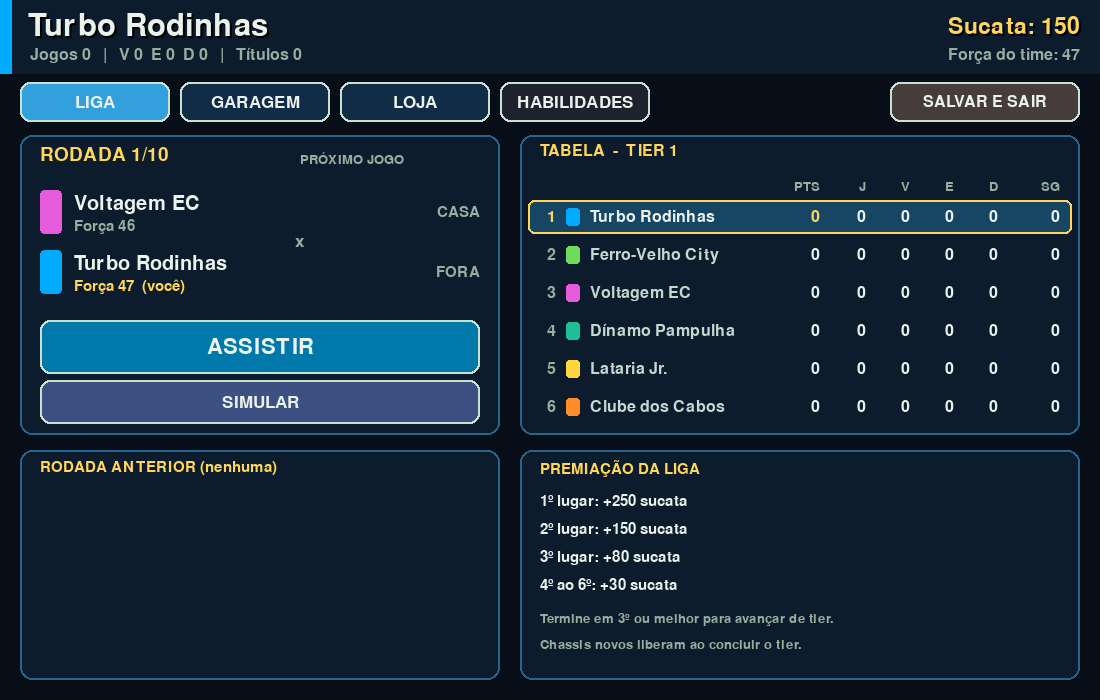
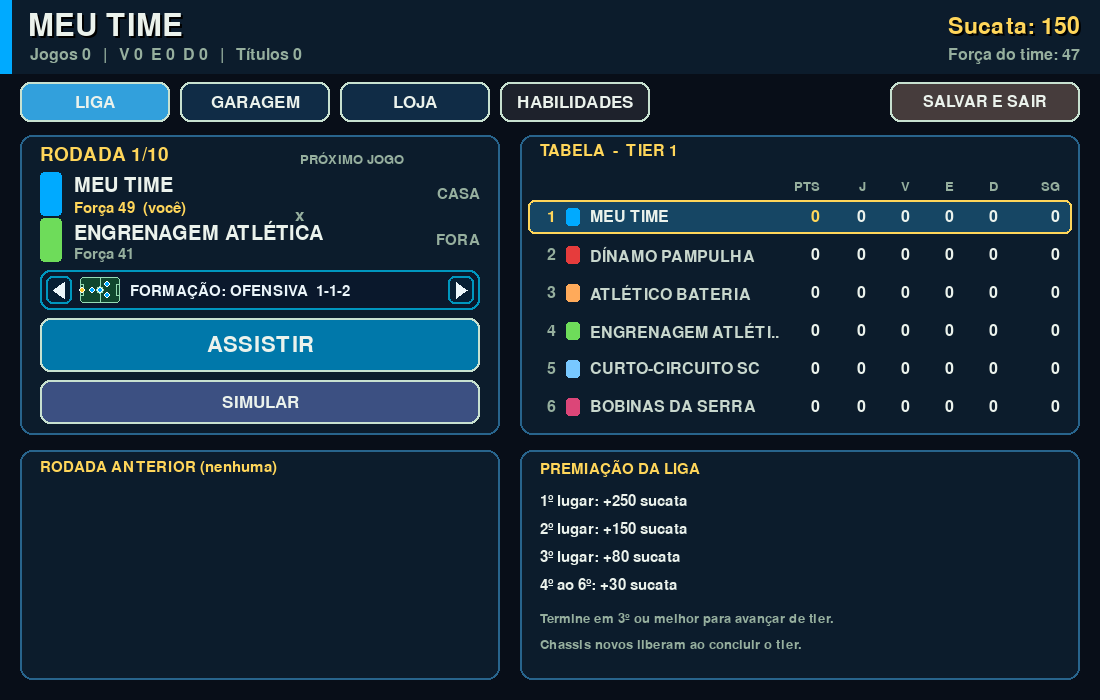
docs: formacao em todos os modos, balanceamento e revisao geral do README e docs
- specs/formacoes.md (novo): arquivos, formacoes, onde aparece, teclas, motor, saves, tabela de
  balanceamento e efeito no SIMULAR.
- README: secao Formacao, legendas e galeria atualizadas (menu sem opcao de camera, partida com a faixa
  do narrador, amistoso, formacao na campanha, torneio, Modo Robos, Torre), contagens de efeitos de som,
  estrutura (formations.py, formation_ui.py, tools/versionar_build.sh) e testes.
- INDEX/roadmap: estado (Amistoso, formacao e som prontos, ainda nao publicados), numeros de linhas e
  testes, como regerar as capturas.

diff --git a/README.md b/README.md
@@ -25,17 +25,18 @@ pelas habilidades dos robôs.
 | ![Campanha: diálogo](docs/img/campanha-dialogo.png) | ![Campanha: mapa dos capítulos](docs/img/campanha-mapa.png) |
 | **Campanha** - diálogos com personagens e cenários em pixel art animados (torcida com rostos, piso de tábuas, luzes) | **Mapa da campanha** - da escola ao Mundial de Aspiradores |
 | ![Campanha: torneio](docs/img/campanha-torneio.png) | ![Modo Robôs: liga](docs/img/modo-robos-liga.png) |
-| **Torneio** - grupo, chaveamento e final contra o chefe (ASSISTIR ou SIMULAR) | **Modo Robôs** - liga de 6 times em 4 tiers |
+| **Torneio** - grupo, chaveamento, final contra o chefe, formação e ASSISTIR ou SIMULAR | **Modo Robôs** - liga de 6 times em 4 tiers, com a formação do próximo jogo |
 | ![Garagem: bancada com 8 slots](docs/img/garagem-bancada.png) | ![Árvore de habilidades](docs/img/habilidades.png) |
 | **Garagem** - 8 slots (com Módulo), sets, relíquias e o antes/depois de cada peça | **Habilidades** - árvore Ataque/Controle/Defesa, skills equipadas e tática do time |
 | ![Mochila de itens](docs/img/mochila.png) | ![Galeria de cosméticos](docs/img/visual-cosmeticos.png) |
 | **Mochila** - até 2 itens de partida, gastos ao jogar | **Visual** - adesivo, antena, rastro e comemoração por robô |
 
-![Amistoso: escolha de times e formações](docs/img/amistoso-escolha.png)
-
-**Amistoso** - antes da partida, o time e a formação de cada lado (escudo, força e mini-campo com a posição dos robôs).
+| ![Amistoso: escolha de times e formações](docs/img/amistoso-escolha.png) | ![Seletor de formação na campanha](docs/img/formacao-campanha.png) |
+|---|---|
+| **Amistoso** - antes da partida, o time e a formação de cada lado (escudo, força e mini-campo com a posição dos robôs) | **Formação** - o mesmo seletor na campanha, no Modo Robôs e na carreira |
 
 | ![Mapa do Ato 2](docs/img/campanha-mapa-ato2.png) | ![Superliga em pontos corridos](docs/img/campanha-superliga.png) |
+|---|---|
 | **Ato 2** - mapa por Ato (Ato 1 escola ao Mundial, Ato 2 Superliga Limpex, Ato 3 Copa dos Campeões) | **Superliga** - liga em pontos corridos, os 4 primeiros vão à semifinal |
 
 ![Missões secundárias](docs/img/campanha-missoes.png)
@@ -112,13 +113,14 @@ início do jogo, aos poucos) somados a sons gravados em `game/audio/` (OGG mono,
 - **Reações da torcida (tabela única `FILE_SFX` em `game/sfx.py`):** cada reação tem de 3 a 9
   variações (gravações + variações derivadas delas em tempo de execução: outro tom/andamento ou outro
   trecho, sem arquivo novo), sorteadas em "saco embaralhado" (toca todas antes de repetir, nunca a
-  mesma duas vezes seguidas). Grito de gol do jogador (9), do adversário (6), lamento da torcida no gol
-  sofrido (4; gol contra do nosso time: vaia), "uuuh" da chance (4), quase gol (4 / 3), defesa (4),
+  mesma duas vezes seguidas). Grito de gol do jogador (9), do adversário (7, com um "não!"), lamento da
+  torcida no gol sofrido (4; gol contra do nosso time: vaia), "uuuh" da chance (6), quase gol (6 / 3), defesa (4),
   trave (4, junto do CLANG), olé no drible e na defesa do jogador (4), palmas (3-4), vaia (3),
   início "começou!" (3), festa da vitória (3) e lamento da derrota (3). Vozes faladas têm intervalo
   próprio maior para não cansar. Detalhes em [docs/specs/som.md](docs/specs/som.md).
-- **Outros efeitos gravados:** apito final, robôs desligando no fim, palmas nos cânticos e na ola da
-  torcida e o clique dos menus.
+- **Outros efeitos gravados:** apito final com o "acabou!", robôs desligando no fim, caixa registradora
+  no card do resumo da partida (qualquer placar), palmas nos cânticos e na ola da torcida e o clique dos
+  menus.
 - **Motor dos robôs:** `robo_motor.ogg` em loop, baixo, enquanto a bola rola (para na pausa e no MAX).
 - Se algum arquivo faltar ou não abrir, entra o som sintetizado equivalente.
 
@@ -126,10 +128,9 @@ Ligados por padrão em volume médio.
 
 - **Efeitos:** chute e toque na bola, roubo e drible, trave (CLANG), apito de início e de fim, gol
   (explosão da torcida + buzina), "uuuh" da chance, defesa, palmas, skill (BUZZ), arrancada (ZOOM),
-  cliques de menu, avanço de diálogo, vitória/derrota/empate, recompensa, compra e upgrade na loja.
+  cliques de menu, avanço de diálogo, recompensa, compra e upgrade na loja.
 - **Música** chiptune em loop (só se faltarem os arquivos): uma trilha para menus/campanha e outra, mais
-  animada e mais baixa, para a partida; "acabou!" no apito final e caixa registradora no card do resumo
-  da partida.
+  animada e mais baixa, para a partida.
 - **Teclas:** **M** liga/desliga o mudo geral (em qualquer tela); **S** gira o volume dos efeitos e
   **N** o da música (DESL. / BAIXO / MÉDIO / ALTO), no menu ou na pausa. Tudo fica gravado nas
   preferências. No modo MAX a partida fica sem efeitos.
@@ -139,8 +140,9 @@ Ligados por padrão em volume médio.
 **Robôs e cenas:** cada chassi tem desenho próprio (o Orbital com satélites, o
 Titã octogonal), as peças equipadas aparecem no robô (turbina, canhão, para-choque
 blindado, radar...), as escovas giram e a bateria baixa solta faíscas e fumaça.
-Na campanha, os personagens piscam e mexem a boca ao falar, e os cenários têm
-camadas, luz e animação.
+Na campanha, personagens e cenários são **pixel art** desenhada por código (`game/portraits_pixel.py`,
+`game/scenes_pixel.py`): os personagens piscam e mexem a boca ao falar, com expressão por humor, e os
+cenários têm torcida, luz e animação.
 
 ## Modos
 No menu (teclas 1-6): `1 - AMISTOSO`, `2 - AMISTOSO`, `3 - NOVA CARREIRA`, `4 - CONTINUAR CARREIRA`, `5 - MODO ROBÔS` e `6 - CAMPANHA`.
@@ -157,9 +159,10 @@ torcida, ~1 min) sem trocar a música do menu. Qualquer tecla, clique, toque ou 
    escudo, cor e força (os robôs entram em campo com a força do time). O mesmo time não pode estar dos
    dois lados; cores parecidas fazem o lado da direita trocar de cor, como nas outras partidas.
    Formações (mini-campo com a posição dos 5 robôs): **EQUILIBRADA 1-2-1** (a de sempre), **RETRANCA
-   2-1-1** (dois zagueiros, bloco recuado), **OFENSIVA 1-1-2** (dois atacantes abertos), **QUADRADO 2-2**
+   2-1-1** (dois zagueiros fechando o meio), **OFENSIVA 1-1-2** (dois atacantes abertos), **QUADRADO 2-2**
    e **PRESSÃO 1-2-1** (linha alta). A formação muda onde cada robô fica e para onde volta durante o jogo
-   (posição base + avanço/recuo do bloco); os papéis e atributos dos robôs não mudam.
+   (posição base + avanço/recuo do bloco); os papéis e atributos dos robôs não mudam. A mesma escolha
+   de formação existe na carreira, no Modo Robôs e na campanha (ver **Formação** abaixo).
    Teclas: setas/WASD escolhem (no modo 1 você escolhe os dois lados; TAB troca de lado; no modo 2 o J1
    usa WASD no lado esquerdo e o J2 as setas no direito, ao mesmo tempo), **R** = aleatório, **ENTER** =
    jogar, **ESC** = menu; com o mouse: setas < >, roda sobre a linha e os botões. A última escolha fica
@@ -171,7 +174,8 @@ torcida, ~1 min) sem trocar a música do menu. Qualquer tecla, clique, toque ou 
    salários, premiação), **promoção/rebaixamento** (sobem/descem 2) e evolução
    dos jogadores entre temporadas. Suas partidas são **jogadas automaticamente
    no campo** (você assiste; velocidade 1x/2x/4x/MAX nas teclas 1-4); as dos
-   outros clubes são simuladas. O progresso é salvo sozinho (`localStorage` no
+   outros clubes são simuladas. Na aba INÍCIO, o seletor de **formação** do seu clube fica no
+   painel da próxima partida. O progresso é salvo sozinho (`localStorage` no
    navegador; `~/.soccerpy_career.json` no desktop).
 4. **Continuar carreira** (aparece quando há save)
 5. **Modo Robôs**: você monta uma **equipe de robôs persistente** e disputa ligas.
@@ -191,7 +195,8 @@ torcida, ~1 min) sem trocar a música do menu. Qualquer tecla, clique, toque ou 
    - **Liga:** 6 times, ida e volta (10 rodadas), em 4 tiers de dificuldade. Em cada
      rodada você escolhe **assistir** (partida jogada no motor) ou **simular**
      (resultado estatístico). Terminar em 3º ou melhor libera o próximo tier, e a
-     premiação em sucata depende da colocação.
+     premiação em sucata depende da colocação. A **formação** do time é escolhida no painel do
+     próximo jogo, na aba LIGA.
    - **Habilidades, itens e visual (Fase 4, Onda B)** - liberados ao concluir o tier 1 do
      Modo Robôs ou o Ato 1 da campanha (antes disso tudo joga exatamente como antes):
      - **8º slot "Módulo"**, 30 modelos de peça, 6 relíquias únicas e 5 sets (Faxineiro,
@@ -227,7 +232,7 @@ torcida, ~1 min) sem trocar a música do menu. Qualquer tecla, clique, toque ou 
      Campeões) e 13 (O Chip Zero, contra o X-Ômega), com **3 finais** conforme as escolhas (um
      deles secreto). Mais **14 missões secundárias** no botão MISSÕES do mapa (as 4 "Fitas do Vô"
      levam ao final secreto). São ~160 cenas de diálogo. Retratos e
-     cenários são **desenhados por código** (sem imagens externas). O mapa tem uma aba por Ato
+     cenários são **pixel art desenhada por código** (sem imagens externas). O mapa tem uma aba por Ato
      e um botão de **MISSÕES** secundárias.
    - **Escolhas:** algumas cenas oferecem 2-3 opções que mudam falas seguintes e podem dar
      recompensas (sucata, XP, peça). Esc na cena abre um mini-menu; PULAR CENA pede
@@ -235,6 +240,7 @@ torcida, ~1 min) sem trocar a música do menu. Qualquer tecla, clique, toque ou 
    - **Torneios:** grupo de 4 + mata-mata com pênaltis (o Mundial tem também quartas).
      Você é sempre o mandante. Em cada partida escolhe **ASSISTIR** (partida jogada no
      motor, velocidade 1x/2x/4x/MAX nas teclas 1-4) ou **SIMULAR** (resultado estatístico).
+   - **Formação:** escolhida no painel da partida do torneio, no TREINO e na Torre do Pó.
    - **Chefes e "ajuda":** a cada derrota seguida contra o chefe ele perde 1 de Força
      (até -3); zera ao vencer.
    - **TREINO:** partidas ilimitadas contra um adversário mais fraco, na garagem ou no
@@ -267,6 +273,17 @@ torcida, ~1 min) sem trocar a música do menu. Qualquer tecla, clique, toque ou 
        do NG+ e da Torre (a loja e os drops nunca sorteiam). Sete cosméticos novos (antenas Para-raios,
        Coroa do Pó e Auréola; rastros Poeira Dourada e Cometa; comemorações Troféu e Relâmpagos) aparecem
        na loja como "prêmio" e não se compram.
+
+### Formação (todos os modos)
+Cinco formações: **EQUILIBRADA 1-2-1** (padrão), **RETRANCA 2-1-1**, **OFENSIVA 1-1-2**, **QUADRADO 2-2** e
+**PRESSÃO 1-2-1**. Fora do amistoso, o seletor `FORMAÇÃO: < EQUILIBRADA 1-2-1 >` (com mini-campo) fica
+acima do ASSISTIR: na campanha (torneio, treino e Torre do Pó), no Modo Robôs (aba LIGA) e na carreira
+(aba INÍCIO). Clique nas setas ou no seletor, ou use as setas esquerda/direita, **F** (próxima) e
+**Shift+F** (anterior). A escolha fica no save de cada modo (campo opcional `formation`; saves antigos
+carregam com a EQUILIBRADA). Só o seu time muda: a CPU joga com a formação padrão. Medido no motor: com robôs
+fracos as formações ficam perto da EQUILIBRADA; com robôs fortes RETRANCA, OFENSIVA e QUADRADO pioram e a
+PRESSÃO melhora. Esse efeito entra na "Sua Força" e no SIMULAR. Detalhes em
+[docs/specs/formacoes.md](docs/specs/formacoes.md).
 
 ### Controles (modos 1 e 2)
 | Ação | Modo 1 jogador | J1 | J2 |
@@ -326,9 +343,10 @@ do Pó.
 | 3 | **Campanha** "A Garagem do Vô": história, diálogos, torneios, chefes e treino (escola -> mundial) | pronta e jogável |
 | 4 | **Campanha Expandida**: torcida realista, câmera de estádio e desenhos mais detalhados (Onda A), peças/sets/relíquias/itens/cosméticos e 16 skills dos robôs (Onda B), Atos 2 e 3, missões secundárias e 3 finais (Onda C), NG+ "Turnê Lendária", Torre do Pó e peças Míticas (Onda D) | Ondas A, B, C e D (pós-campanha) prontas e publicadas ([docs/roadmap.md](docs/roadmap.md)) |
 | 5 | Editor de firmware (regras da IA em blocos) | planejada |
-| 6 | **Som**: efeitos e música sintetizados por código, mudo (M) e volumes (S/N) | pronta |
+| 6 | **Som**: efeitos e música sintetizados por código, sons gravados (torcida, gol, apito, "acabou!", caixa registradora), música "Into the Iron Horizon" nas partidas com a torcida de fundo em loop, mudo (M) e volumes (S/N) | pronta, ainda não publicada |
 
-O planejamento detalhado fica em [`docs/`](docs/INDEX.md).
+Também prontos e ainda não publicados: amistoso com escolha de times e formações e a escolha de
+formação na campanha, no Modo Robôs e na carreira. O planejamento detalhado fica em [`docs/`](docs/INDEX.md).
 
 **Robôs (Fase 1):** 6 chassis (Disco, Tanque, Velocista, Goleiro, Orbital, Titã) e 8 atributos
 (velocidade, aceleração, chute, controle/sucção, defesa, visão, bateria, QI) que
@@ -350,9 +368,9 @@ cd game && pygbag --template ../web/copaaspirador.tmpl --width 1100 --height 700
 # gerar build estático para publicar (itch.io, GitHub Pages...): game/build/web/
 cd game && pygbag --template ../web/copaaspirador.tmpl --width 1100 --height 700 --title "Copa Aspirador" --build .
 
-# antes de publicar: versiona os pacotes no index.html (game.apk?v=<sha>), para cada deploy
-# aparecer na hora (nem o Cloudflare nem o navegador servem o pacote antigo do cache)
-cd .. && tools/versionar_build.sh
+# antes de publicar: versiona os pacotes no index.html (game.apk?v=<sha>, cache busting), para
+# cada deploy aparecer na hora (nenhum cache serve o pacote antigo)
+cd .. && tools/versionar_build.sh            # ou: tools/versionar_build.sh <pasta_do_build>
 ```
 
 ## Testes
@@ -366,20 +384,20 @@ export SDL_VIDEODRIVER=dummy SDL_AUDIODRIVER=dummy
 .venv/bin/python tests/test_parts_v2.py               # catálogo novo: modelos, relíquias, módulos e sets
 .venv/bin/python tests/test_skills.py                  # dados das skills, árvore, carga, tática e força calibrada
 .venv/bin/python tests/test_skills_engine.py           # skills no motor: cada uma muda o lance, disparos, FX (~minutos)
-.venv/bin/python tests/test_robots_ui.py               # telas do Modo Robôs
+.venv/bin/python tests/test_robots_ui.py               # telas do Modo Robôs e seletor de formação (Modo Robôs, carreira, save)
 .venv/bin/python tests/test_visual.py                  # cores dos clubes, efeitos, pausa, save
 .venv/bin/python tests/test_story.py                   # dados da campanha (cenas, textos, torneios, capítulos, recompensas)
 .venv/bin/python tests/test_campaign.py                # lógica da campanha (torneios, pity, treino, recompensas)
 .venv/bin/python tests/test_campaign_save.py           # save da campanha (validação, reparo, save inválido)
 .venv/bin/python tests/test_campaign_migration.py      # migração v1 -> v2 -> v3 (4 saves reais do cap. 5, save terminado) e builds antigos lendo o save novo
-.venv/bin/python tests/test_campaign_ui.py             # telas da campanha (menu, mapa por Ato, missões, diálogo, torneio, fim e galeria)
+.venv/bin/python tests/test_campaign_ui.py             # telas da campanha (menu, mapa por Ato, missões, diálogo, torneio, fim e galeria, formação)
 .venv/bin/python tests/test_portraits.py               # retratos e cenários desenhados por código
 .venv/bin/python tests/test_prefs.py                   # preferências do jogador (store, valor inválido -> padrão)
 .venv/bin/python tests/test_friendly.py                # amistoso: times/formações, padrão idêntico ao motor antigo, tela, prefs, zero Surface
 .venv/bin/python tests/test_sfx.py                     # som: buffers sintetizados, arquivos OGG (trilhas, efeitos, motor), música + torcida da partida, throttle, mudo
 .venv/bin/python tests/test_crowd.py                   # torcida: locais, reações, extras, LOD, zero Surface por quadro
 .venv/bin/python tests/test_fireworks.py                # fogos do gol/vitória, modo demo, pisos do campo, nomes em caixa alta
-.venv/bin/python tests/test_camera.py                  # câmera de estádio: começa sempre em ESTÁDIO, tecla C, gol não troca, zero Surface
+.venv/bin/python tests/test_camera.py                  # câmera de estádio: começa sempre em ESTÁDIO, C só na pausa, gol não troca, zero Surface
 .venv/bin/python tests/test_narration.py               # narrador/comentarista: catálogo, fila sem spam, nomes, faixa, zero Surface
 .venv/bin/python tests/test_robot_art.py               # robôs: chassis, peças visíveis, cache, FX, local da torcida por modo
 .venv/bin/python tests/test_arena.py                   # modificadores de arena da Torre do Pó (desligados fora dela, efeito, zero Surface)
@@ -400,6 +418,7 @@ Os testes da campanha também não gravam nos saves reais. Os de partida são le
 .venv/bin/python tests/calib_campaign.py [--n 200] [--skills] [--procs 4]  # calibra a simulação da campanha (SIM_BIAS) contra o motor; pesado, opcional
 .venv/bin/python tests/calib_campaign.py --post --n 100  # NG+ e Torre do Pó (com modificadores) no motor x SIMULAR (~20 min)
 .venv/bin/python tests/calib_skills.py               # mede a força de cada skill no motor (tabela SKILL_FORCE); muito pesado
+.venv/bin/python tests/calib_formations.py [--n 300] [--procs 4] [--mode robots|friendly] [--all]  # balanceamento das formações no motor (CPU x CPU); pesado
 ```
 Utilitários do harness (`tests/sim_harness.py`): `golden`/`golden-new` com
 `--write` (regrava a baseline) ou `--check`, `run <ovrA> <ovrB> <n> [seed0] [legacy]`
@@ -418,11 +437,14 @@ Utilitários do harness (`tests/sim_harness.py`): `golden`/`golden-new` com
 - `game/store.py`: armazenamento de texto (`localStorage` no navegador, arquivo em `~` no desktop)
 - `game/prefs.py`: preferências do jogador (`soccerpy_prefs_v1`: torcida ALTA/MEDIA/OFF, tecla T; som `sfx_vol`/`music_vol` 0-3 e `mute`, teclas S/N/M; última escolha do amistoso `fr_t0/fr_t1/fr_f0/fr_f1`), com sanitize e padrão
 - `game/friendly.py` / `game/friendly_ui.py`: amistoso com escolha de times (29, de todos os modos) e formações (5), puro, e a tela de escolha
+- `game/formations.py`: as 5 formações (dados puros, compartilhados por amistoso, campanha, Modo Robôs e carreira; sanitize e o que o motor recebe)
+- `game/formation_ui.py`: mini-campo e seletor `FORMAÇÃO: < ... >` (clique e teclado) usados nas telas de partida
 - `game/sfx.py`: efeitos sonoros sintetizados, tabela única reação -> sons gravados (`FILE_SFX`, com variações derivadas em runtime e saco embaralhado), conversão para o formato do mixer, throttle, volumes/mudo, a música no canal reservado e a playlist do menu (`game/audio/*.ogg`, via `pygame.mixer.music`)
 - `game/music.py`: trilhas chiptune (menu, partida, jingles de vitória/derrota) escritas como texto e sintetizadas compasso a compasso
 - `game/crowd.py`: torcida (locais, espectadores pré-renderizados, reações, confete/LED/telão "AO VIVO", LOD) e a geometria das câmeras PERTO/ESTÁDIO
 - `game/narration.py`: narrador (Tonho) e comentarista (Cleide): catálogo de falas, fila sem spam e a faixa de TV da partida
 - `tools/normalizar_audio.sh`: deixa os áudios de `game/audio/` compactos e com o volume nivelado (ffmpeg; ver `docs/specs/som.md`)
+- `tools/versionar_build.sh`: versiona `game.apk`/`game.tar.gz` no `index.html` do build (`?v=<sha256 curto do game.apk>`; cache busting a cada deploy)
 - `tools/torcida_loop.sh`: gera `game/audio/torcida_loop.ogg` (torcida de fundo da partida, 24 s em loop sem emenda) a partir das 3 gravações de torcida
 - `game/robots_ui.py`: telas do Modo Robôs (hub, garagem, banco, loja, habilidades, mochila, visual, liga)
 - `game/career.py` / `game/career_ui.py`: carreira de clubes (liga, mercado, finanças, save) e suas telas

diff --git a/docs/INDEX.md b/docs/INDEX.md
@@ -10,8 +10,9 @@ Planejamento e especificações do jogo. O código e os comandos do dia a dia es
 | [specs/itens-e-habilidades.md](specs/itens-e-habilidades.md) | Peças de 14 para ~36 modelos, 8º slot "Módulo", sets, relíquias únicas, consumíveis de partida, cosméticos e o sistema de 16 skills dos robôs (gatilhos, efeitos no motor, cooldown, custo de bateria, como se ganham), integração no motor sem quebrar os goldens, calibração e garage v2 |
 | [specs/visual-desenhos-e-torcida.md](specs/visual-desenhos-e-torcida.md) | Torcida nas arquibancadas (geometria, técnica sem Surface por frame, orçamento de desempenho, reações por evento, densidade por capítulo, narrador e comentarista na faixa de TV, telão AO VIVO, câmera ESTÁDIO em toda partida), robôs com peças visíveis e animações, retratos e cenários mais detalhados, personagens em pixel art (estilo padrão: técnica, roupas/acessórios por personagem, humores, busto, cache e custo), e como testar |
 | [specs/som.md](specs/som.md) | Fase 6 - Som: catálogo de efeitos e onde tocam, trilhas chiptune, síntese (stdlib, 22050 Hz), formato do mixer, prefs (M/S/N), limites de vozes e throttle, navegador (pygbag) e medições; reações da torcida (tabela única, variações derivadas, saco embaralhado), música da partida + torcida de fundo em loop tocando juntas (volumes, RAM, `tools/torcida_loop.sh`) e áudios compactos com volume nivelado (`tools/normalizar_audio.sh`) |
+| [specs/formacoes.md](specs/formacoes.md) | Formações (5) em todos os modos: dados compartilhados (`formations.py`), seletor com mini-campo (`formation_ui.py`) no Amistoso, na Campanha (torneio, treino, Torre), no Modo Robôs (aba LIGA) e na Carreira (aba INÍCIO), teclas, motor (padrão = motor de sempre), campo opcional `formation` nos saves, CPU na padrão; balanceamento medido em `tests/calib_formations.py` (sem formação dominante até Força ~75; efeito no SIMULAR) |
 | [baseline-fase4.md](baseline-fase4.md) | Medições de referência antes da Fase 4 (commit 8a467a3): `draw_ms`, `menu_ms`, `ms_step`, goldens e resumo da calibragem da campanha |
-| [img/](img/) | Capturas de tela usadas no README (menu, partida, amistoso, campanha, garagem, habilidades, Mochila, cosméticos). Para regerar: rode `tests/test_robots_ui.py`, `tests/test_campaign_ui.py` e `tests/sim_harness.py camera-shots` com `SOCCERPY_SHOTS_DIR=<pasta>` e copie as imagens escolhidas |
+| [img/](img/) | Capturas de tela usadas no README (menu, partida com a faixa do narrador, amistoso, formação, campanha, garagem, habilidades, Mochila, cosméticos, Torre). Para regerar, com `SDL_VIDEODRIVER=dummy SDL_AUDIODRIVER=dummy SOCCERPY_SHOTS_DIR=<pasta>`: `tests/sim_harness.py ui-shots` (menu `a7_menu.png`, gol e narração) e `camera-shots`; `tests/test_campaign_ui.py <teste>` (ex.: `test_tourney_group_table_bracket_and_labels` -> `tourney_knockout.png`, `test_tower_screen_sim_watch_marks_and_restart` -> `d2_torre_tela.png`, `test_formation_selector_tourney_training_and_save` -> `formacao_torneio.png`); `tests/test_robots_ui.py test_formation_selector_robots_hub_and_save` (`formacao_robos.png`, aba LIGA); `tests/test_friendly.py` (tela do amistoso). A partida do README é um Modo Robôs no `estadio` com a garagem `sim_harness.loaded_garage()`, capturada após ~12 s de jogo. Confira cada imagem e copie só as escolhidas |
 | [specs/plano-de-implementacao.md](specs/plano-de-implementacao.md) | Ondas 0, A (visual), B (itens/skills), C (campanha), D (pós-campanha) em passos pequenos com arquivos e validação; estratégia de testes; riscos; decisões para o dev |
 
 ## Estado
@@ -41,7 +42,20 @@ Planejamento e especificações do jogo. O código e os comandos do dia a dia es
     [specs/plano-de-implementacao.md](specs/plano-de-implementacao.md)).
 - Fase 5 (Editor de firmware): planejada
 - Amistoso com escolha de times (29, de todos os modos) e formações (5) antes da partida (`game/friendly.py`,
-  `game/friendly_ui.py`; padrão idêntico ao motor antigo, goldens 80/80) e música nas partidas
-  (`partida_musica.ogg`) junto da torcida de fundo em loop: prontos, ainda não publicados.
+  `game/friendly_ui.py`; padrão idêntico ao motor antigo, goldens 80/80): pronto, ainda não publicado.
+- Formação em todos os modos (branch `feat/formacao-todos-os-modos`): o mesmo seletor na Campanha
+  (torneio, treino, Torre), no Modo Robôs (aba LIGA) e na Carreira (aba INÍCIO), salvo como campo opcional
+  `formation` (garage v2 sem subir versão; carreira idem), CPU na padrão
+  ([specs/formacoes.md](specs/formacoes.md)): pronta, ainda não publicada; balanceamento medido em
+  `tests/calib_formations.py` (sem formação dominante até Força ~75; o efeito por Força entra no SIMULAR).
 - Fase 6 (Som): **pronta** — efeitos e música sintetizados por código (`game/sfx.py`, `game/music.py`),
-  sons gravados em `game/audio/` (músicas de menu/robôs/copas, torcida, gol, apito, trave, motor e desligar dos robôs), mudo (M) e volumes (S/N) nas prefs, testado no desktop e no navegador (pygbag); ainda não publicada
+  sons gravados em `game/audio/` (músicas de menu/robôs/copas, torcida com variações em saco embaralhado,
+  gol, apito, "acabou!", caixa registradora no card do resumo, trave, motor e desligar dos robôs), música
+  "Into the Iron Horizon" (`partida_musica.ogg`) nas partidas junto da torcida de fundo em loop
+  (`tools/torcida_loop.sh`), áudios nivelados (`tools/normalizar_audio.sh`), mudo (M) e volumes (S/N) nas
+  prefs, testado no desktop e no navegador (pygbag); ainda não publicada.
+- Partida e campanha: câmera ESTÁDIO em toda partida, sem troca automática (C só na pausa, só naquela
+  partida), faixa do narrador Tonho e da comentarista Cleide (`game/narration.py`), personagens e
+  cenários da campanha em pixel art (`game/portraits_pixel.py`, `game/scenes_pixel.py`).
+- Deploy: build do pygbag + `tools/versionar_build.sh` (cache busting do `game.apk`); ver o README.
+- Código: ~48,9 mil linhas (game ~28,9 mil, tests ~20,0 mil); 532 testes (`def test_` em `tests/test_*.py`).

diff --git a/docs/specs/formacoes.md b/docs/specs/formacoes.md
@@ -1,0 +1,91 @@
+# Formações
+
+O time do jogador escolhe uma de 5 formações antes da partida, em todos os modos. A formação muda só
+onde cada robô fica e para onde volta durante o jogo (posição base + avanço/recuo do bloco); papéis
+(GOL/DEF/MEI/MEI/ATA), chassis e atributos não mudam.
+
+## Arquivos
+| Arquivo | Papel |
+|---|---|
+| `game/formations.py` | dados compartilhados (puro, sem pygame): `FORMATIONS`, `ORDER`, `DEFAULT` = `"equilibrada"`, `get`, `clean` (sanitize dos saves), `cycle`, `engine` (o que o motor recebe), `label` |
+| `game/formation_ui.py` | desenho compartilhado: `draw_pitch` (mini-campo com os 5 robôs) e `draw_selector` (seletor compacto); `key_step` (teclado) |
+| `game/friendly.py` / `game/friendly_ui.py` | Amistoso: reexporta os dados (`friendly.FORMATIONS`) e usa o mesmo mini-campo, maior |
+| `game/garage.py`, `game/career.py` | campo `formation` no save e `set_formation` |
+| `game/campaign_ui.py`, `game/robots_ui.py`, `game/career_ui.py` | o seletor em cada tela |
+| `tests/calib_formations.py` | balanceamento no motor real (CPU x CPU, mesmas forças) |
+
+## As 5 formações
+| id | Seletor | Ideia |
+|---|---|---|
+| `equilibrada` | EQUILIBRADA 1-2-1 | a de sempre (padrão): um atrás, dois no meio |
+| `retranca` | RETRANCA 2-1-1 | dois zagueiros fechando o meio |
+| `ofensiva` | OFENSIVA 1-1-2 | dois atacantes abertos na frente |
+| `quadrado` | QUADRADO 2-2 | duas linhas de dois, fechado |
+| `pressao` | PRESSÃO 1-2-1 | linha alta, aperta a saída do rival |
+
+Os parâmetros (`pts` e `push` de cada formação) estão em `game/formations.py`; a RETRANCA (zagueiros em
+y 0,44/0,56), a OFENSIVA, o QUADRADO e a PRESSÃO foram reajustados nesta versão (o QUADRADO original, sem
+ninguém no corredor central, tinha 9% de aproveitamento contra a EQUILIBRADA). A EQUILIBRADA é o
+`soccer.FORMATION` de sempre.
+
+## Balanceamento
+`tests/calib_formations.py` (motor real, CPU x CPU, mesmas forças, desenho pareado). Aproveitamento
+(V+E/2, %) contra a EQUILIBRADA, Modo Robôs/Campanha:
+
+| Formação | Força 45 | 60 | 75 | 90 |
+|---|---|---|---|---|
+| RETRANCA | 51,7 | 42,2 | 30,4 | 11,2 |
+| OFENSIVA | 54,2 | 44,6 | 29,9 | 27,8 |
+| QUADRADO | 54,8 | 46,0 | 40,4 | 38,7 |
+| PRESSÃO | 50,2 | 50,6 | 54,6 | 67,0 |
+
+- Até Força ~75 (campanha) nenhuma formação passa de +5 pontos sobre a EQUILIBRADA: a campanha não fica
+  mais fácil. Com robôs fortes as formações que tiram gente do corredor central perdem rendimento, e a
+  PRESSÃO ganha no pós-campanha (+17 em Força 90).
+- Confrontos diretos (Força 60): RETRANCA vence OFENSIVA e QUADRADO, perde da PRESSÃO; QUADRADO vence a
+  PRESSÃO; o QUADRADO é o jogo mais aberto (mais gols a favor e contra).
+- **SIMULAR fiel ao motor:** `formations.SIM_DF` converte o efeito medido em pontos de Força
+  (dF = (aproveitamento - 50) / 1,8, interpolado pela Força do time) e `Garage.match_F()` o soma: muda a
+  "Sua Força" mostrada e o SIMULAR da campanha, do treino, da Torre e do Modo Robôs. A carreira soma o mesmo
+  dF ao ataque e à defesa do clube no `Career.sim_match`. A padrão não tem entrada (dF = 0): Força,
+  SIMULAR e a calibração da campanha (`tests/calib_campaign.py`) ficam exatamente como antes.
+
+## Onde aparece
+| Modo | Tela | Onde |
+|---|---|---|
+| Amistoso (1 e 2) | tela de escolha antes da partida | formação dos dois lados, com mini-campo grande |
+| Campanha | painel da partida do torneio (copa, liga, série), TREINO e Torre do Pó | acima de ASSISTIR |
+| Modo Robôs | aba LIGA, painel do próximo jogo (só quando há jogo) | acima de ASSISTIR |
+| Carreira | aba INÍCIO, painel da próxima partida | acima de ASSISTIR |
+
+Seletor: `FORMAÇÃO: < EQUILIBRADA 1-2-1 >` com mini-campo. Clique na seta da esquerda volta, na da
+direita ou no corpo avança. Teclado: setas esquerda/direita, **F** (próxima) e **Shift+F** (anterior).
+Na Campanha e no Modo Robôs o seletor não responde com a Mochila ou o Visual abertos. Na Campanha, a troca
+atualiza na hora a partida já montada (torneio, treino ou Torre).
+
+## Motor
+- `formations.engine(id)` devolve `None` para a padrão (ou id desconhecido) e o dict da formação para as
+  outras; `soccer.Team(formation=...)` só troca as posições base e soma o `push` ao avanço do bloco.
+- O cfg da partida (`Garage.match_cfg`, `Career.match_cfg`) só ganha `"formation"` quando ela não é a
+  padrão: com a padrão o motor é exatamente o de sempre (goldens 80/80).
+- O adversário controlado pela CPU usa sempre a padrão (no Amistoso, quem escolhe os dois lados é o jogador).
+- O SIMULAR (resultado estatístico pela Força) soma o efeito medido da formação (ver Balanceamento).
+
+## Saves
+Campo opcional `"formation"` (id de `formations.FORMATIONS`), padrão `"equilibrada"`. Save antigo sem o
+campo, ou com id inválido, carrega com a padrão (`formations.clean`).
+- **Modo Robôs**: `garage.FIELDS` da garage v2, sem subir a versão (`soccerpy_robots_v1`).
+- **Campanha**: vai junto da garagem dentro do save da campanha (`soccerpy_campaign_v1`, v3); a formação da
+  campanha é independente da do Modo Robôs.
+- **Carreira**: `Career.FIELDS` (o save da carreira não tem versão).
+- **Amistoso**: prefs `fr_f0`/`fr_f1` (com os times `fr_t0`/`fr_t1`).
+
+## Testes
+- `tests/test_friendly.py`: dados, posições no motor, cfg com a padrão idêntico ao de sempre e aplicado
+  com as outras, tela, prefs.
+- `tests/test_campaign_ui.py`: `test_formation_selector_tourney_training_and_save` (torneio, treino, save)
+  e `test_formation_old_campaign_save_loads_default`.
+- `tests/test_robots_ui.py`: `test_formation_selector_robots_hub_and_save`,
+  `test_formation_garage_save_migration_and_sanitize` e `test_formation_selector_career_home_and_save`.
+- Com `SOCCERPY_SHOTS_DIR=<pasta>` os testes de seletor gravam `formacao_torneio.png` e
+  `formacao_robos.png` (as capturas `docs/img/formacao-campanha.png` e `docs/img/modo-robos-liga.png`).

diff --git a/docs/roadmap.md b/docs/roadmap.md
@@ -2,7 +2,7 @@
 
 ## 1. Estado atual
 
-Tabela original do planejamento (HEAD fd5e17b); a linha da Fase 4 está atualizada.
+Tabela original do planejamento (HEAD fd5e17b); as linhas das Fases 4 e 6 e a do Amistoso estão atualizadas.
 
 | Fase | Conteúdo | Situação |
 |---|---|---|
@@ -11,11 +11,12 @@ Tabela original do planejamento (HEAD fd5e17b); a linha da Fase 4 está atualiza
 | 3 | Campanha "A Garagem do Vô": Prólogo + 5 capítulos + epílogo, 53 cenas / 626 falas, 27 times, 12 personagens, 6 escolhas, torneios (grupo de 4 + mata-mata), chefes com pity, treino, save próprio `soccerpy_campaign_v1` (v1, sv1) | pronta e jogável |
 | 4 (nova) | **Campanha Expandida**: torcida + desenhos detalhados, itens/skills, campanha 3 atos | Ondas A (visual, torcida, câmera de estádio), B (peças, sets, módulo, 16 skills, itens, cosméticos) e C (campanha Prólogo + 13 capítulos em 3 Atos, 3 finais, 14 missões, calibrada no motor) e D (NG+ "Turnê Lendária", Torre do Pó, peças Míticas) prontas e publicadas |
 | 5 | Editor de firmware (regras da IA em blocos) | planejada (era a antiga Fase 4) |
-| 6 | **Som**: efeitos sonoros e música sintetizados por código (stdlib), mudo e volumes nas prefs | pronta ([specs/som.md](specs/som.md)) |
+| 6 | **Som**: efeitos sonoros e música sintetizados por código (stdlib), sons gravados, música nas partidas com a torcida de fundo em loop, mudo e volumes nas prefs | pronta, ainda não publicada ([specs/som.md](specs/som.md)) |
+| - | **Amistoso** com escolha de times e formações; **formação** também na Campanha, no Modo Robôs e na Carreira | pronto, ainda não publicado ([specs/formacoes.md](specs/formacoes.md)); balanceamento medido em `tests/calib_formations.py` (sem formação dominante até Força ~75; efeito no SIMULAR) |
 
 Números do código hoje:
-- ~17,9 mil linhas (game ~9,5 mil, tests ~8,4 mil).
-- Desenho em partida: 0,7 ms/frame.
+- ~48,9 mil linhas (game ~28,9 mil, tests ~20,0 mil); 532 testes.
+- Desenho em partida (câmera ESTÁDIO, gol em curso): 1,9-2,5 ms/frame; PERTO 1,0-1,3 ms (ver [specs/visual-desenhos-e-torcida.md](specs/visual-desenhos-e-torcida.md), 2.8).
 - Motor: 0,037 ms/step.
 - Goldens `golden` e `golden-new`: 80/80.
 - Calibração da campanha: F 44 -> 66 em 6 unidades. Metas medidas no motor: regulares 58-66%, SF 52-58%, chefes 45-52%.
@@ -40,11 +41,13 @@ Quatro frentes entregues em ondas jogáveis:
 
 ## 4. Fora de escopo
 - ~~Áudio ou música~~: saiu do "fora de escopo" e virou a **Fase 6 - Som** (pronta): efeitos e
-  música sintetizados por código, sem arquivos de áudio; o "som visual" continua. Ver
-  [specs/som.md](specs/som.md).
-- Imagens, fontes ou arquivos de áudio externos. Tudo continua desenhado (e sintetizado) por código.
+  música sintetizados por código e, depois, sons gravados em `game/audio/` (a síntese virou o plano B);
+  o "som visual" da torcida deu lugar à faixa do narrador. Ver [specs/som.md](specs/som.md).
+- Imagens e fontes externas. Tudo continua desenhado por código (áudio: ver acima).
 - Editor de firmware (Fase 5), multiplayer online, tradução.
-- Mudar o motor legado, os goldens, a carreira de clubes (`career.py`) ou os modos 1/2.
+- Mudar o motor legado, os goldens, a carreira de clubes (`career.py`) ou os modos 1/2 (na Fase 4; depois
+  dela vieram o Amistoso com escolha de times/formações e a formação na carreira, com o padrão idêntico ao
+  motor de sempre e os goldens 80/80).
 - Mudar a chave dos saves (`soccerpy_robots_v1` e `soccerpy_campaign_v1` continuam; só o campo `v` interno sobe).
 
 ## 5. Princípios (o que não pode quebrar)

diff --git a/docs/specs/itens-e-habilidades.md b/docs/specs/itens-e-habilidades.md
@@ -204,7 +204,7 @@ marca; RNG de FX), não por time, para não subir a versão do save. Catálogo d
 provisório. Partida idêntica com e sem cosméticos (teste); goldens 80/80.
 
 ## 10. Garage v2 (save)
-- `garage.VERSION` 1 -> 2. `MIGRATIONS[1] = fn(dict) -> dict`: para cada robô, `slots["modulo"] = None`, `skills = {"learned": {}, "equipped": [], "pts": 0}`, `look = {}`; no topo, `items = {}`, `cosmetics = []`, `cap = 10`; `v = 2`. `FIELDS` ganha `items`, `cosmetics`, `cap`. A chave de armazenamento continua `soccerpy_robots_v1`.
+- `garage.VERSION` 1 -> 2. `MIGRATIONS[1] = fn(dict) -> dict`: para cada robô, `slots["modulo"] = None`, `skills = {"learned": {}, "equipped": [], "pts": 0}`, `look = {}`; no topo, `items = {}`, `cosmetics = []`, `cap = 10`; `v = 2`. `FIELDS` ganha `items`, `cosmetics`, `cap`. A chave de armazenamento continua `soccerpy_robots_v1`. Depois, ainda na v2 e sem subir a versão, entrou o campo opcional `formation` (ausente/inválido -> `"equilibrada"`; ver [formacoes.md](formacoes.md)).
 - `_robot()` (sanitize): `skills.learned` é dict `{id: rank}` só com ids conhecidos e rank 1-3; `equipped` é subconjunto de `learned` (e de módulos equipados), sem duplicatas, com soma de `load` <= `LOAD_MAX`; `pts` int 0..99; `look` só com ids conhecidos; `level` 1..15 (e <= `cap`). `slots` aceita `modulo` (peça existente do slot certo).
 - `_piece()`: aceita modelos novos e `unique` + `uid` (relíquias, máx 1 de cada), `lvl` 0..5.
 - `MAX_FLAGS` 64 -> 128 e `MAX_INVENTORY` fica 200.
